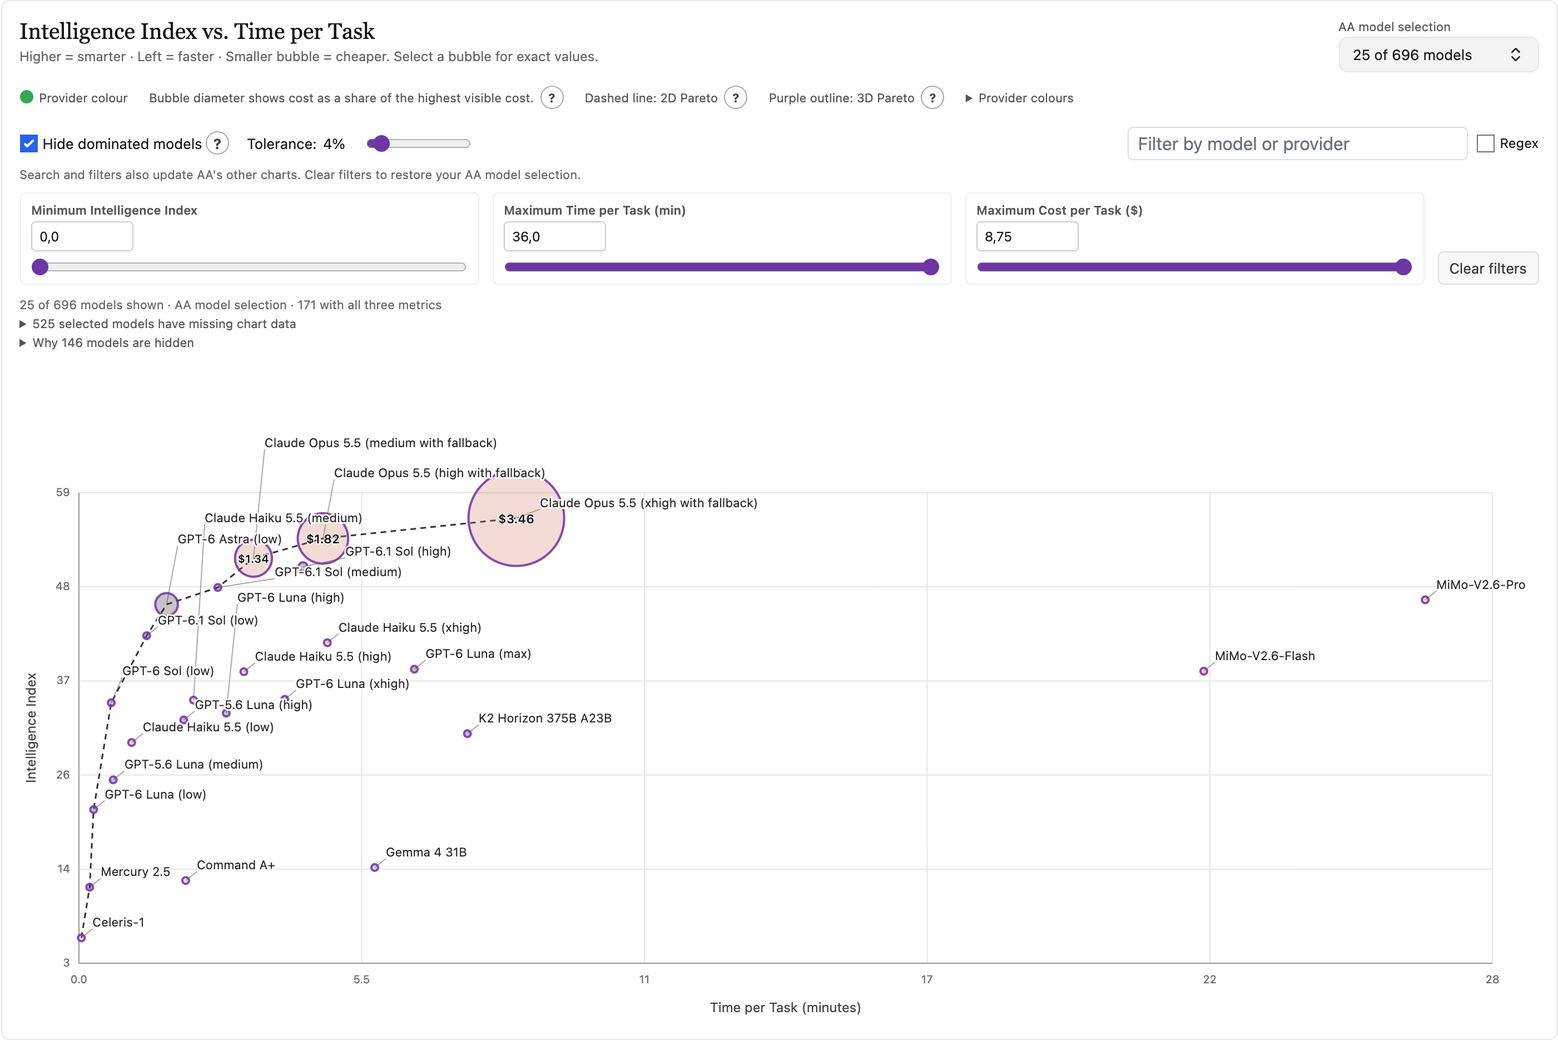
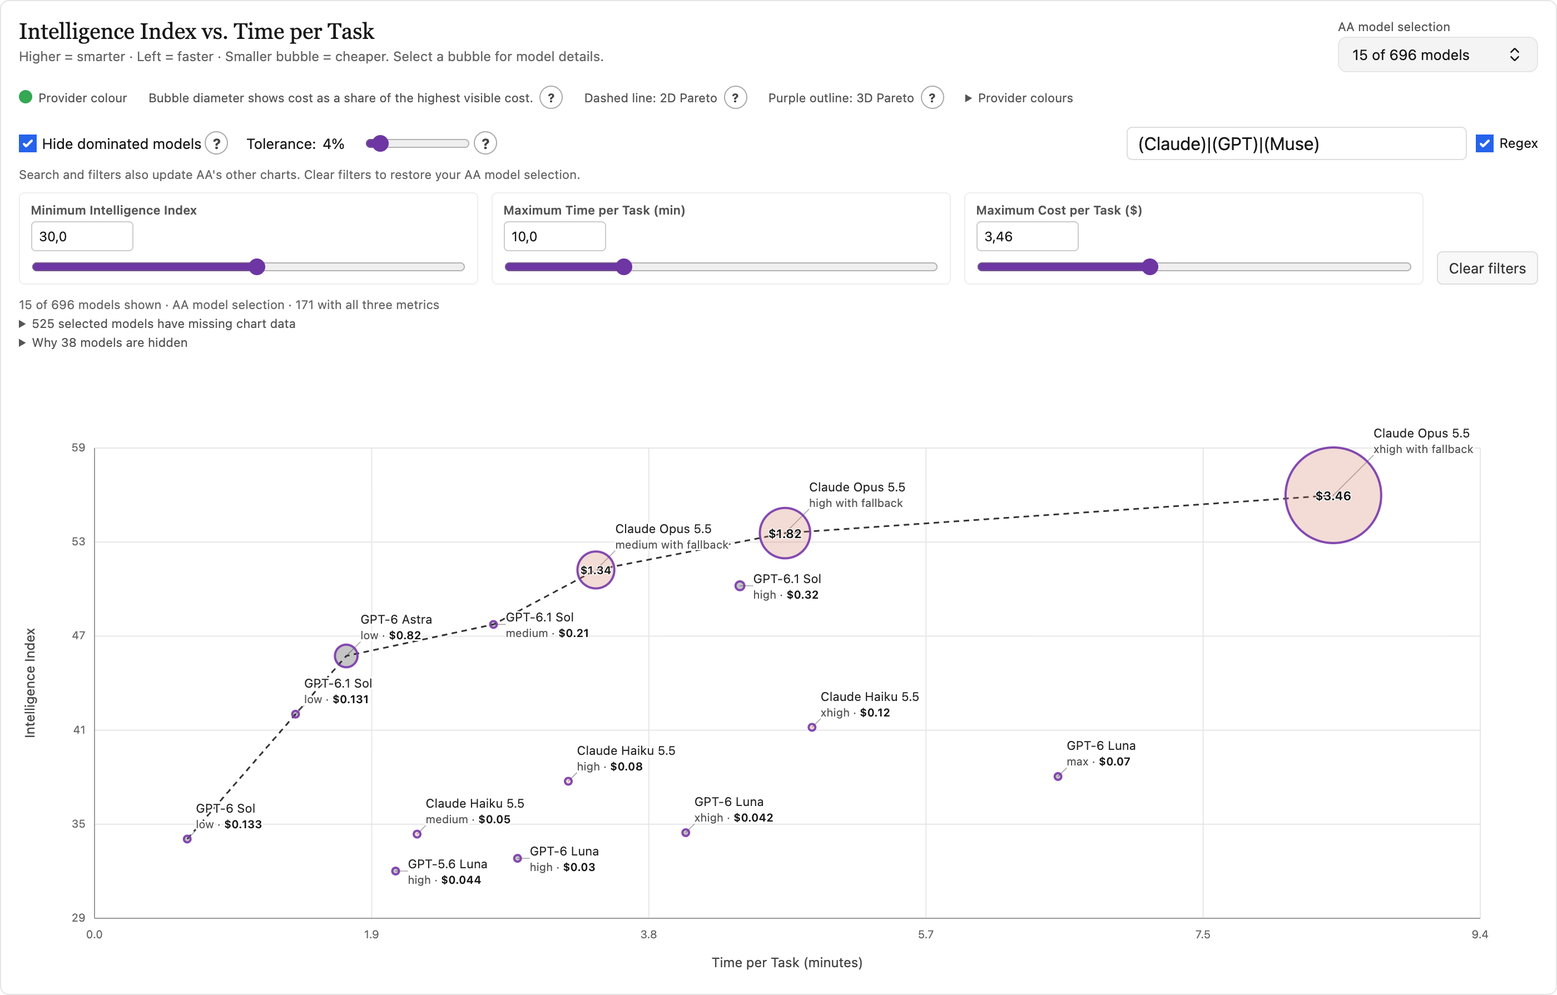
Keep model labels compact and close to bubbles

diff --git a/artificial-analysis-3d-bubble.user.js b/artificial-analysis-3d-bubble.user.js
@@ -1,7 +1,7 @@
 // ==UserScript==
 // @name         ArtificialAnalysis.io: Compare Intelligence, Time AND Cost
 // @namespace    https://artificialanalysis.ai/
-// @version      2.3.5
+// @version      2.4.0
 // @description  Compare AI models by intelligence, time, and cost in one chart. Hide dominated models.
 // @homepageURL  https://github.com/henno/artificial-analysis-bubble-chart
 // @supportURL   https://github.com/henno/artificial-analysis-bubble-chart/issues
@@ -53,6 +53,7 @@
   let svg = null;
   let tooltip = null;
   let status = null;
+  const labelPositions = new Map();
 
   const log = (...args) => console.info(PREFIX, ...args);
   const finite = value => typeof value === 'number' && Number.isFinite(value);
@@ -401,7 +402,7 @@
       const helpText = {
         pareto2: 'The dashed line joins models that have no faster model with equal or higher intelligence. Cost is not part of this line.',
         pareto3: 'A purple outline marks a model for which no other model is at least as smart, fast, and cheap, with one strict improvement. This outline uses exact values, even when tolerance is set.',
-        bubbleSize: 'The highest-cost visible model has the largest bubble. Half the cost gives half its diameter. Prices appear inside bubbles when they fit, or above and to the left when they do not. Each label uses only enough decimal places to distinguish its price from other visible prices, with at least cents and no trailing zeros. Free models show $0. Select a bubble for model details. Very small bubbles keep a 3 px radius so you can see them. The scale changes when the visible models change.',
+        bubbleSize: 'The highest-cost visible model has the largest bubble. Half the cost gives half its diameter. A price appears inside its bubble when it fits, or in the model label when it does not. The model variant is shown below the name. Labels use nearby free space, with a short line to the bubble. Each price uses only enough decimal places to distinguish it from other visible prices, with at least cents and no trailing zeros. Free models show $0. Select a bubble for model details. Very small bubbles keep a 3 px radius so you can see them. The scale changes when the visible models change.',
         dominance: 'Hide a model when another is at least as smart, fast, and cheap, with an improvement in one measure. The Tolerance slider can also hide near matches. Open “Why models are hidden” below the filters for exact comparisons.',
         tolerance: 'Tolerance controls how close another model must be to hide this one. At 0%, the other model must be at least as smart, as fast, and as cheap, with a strict improvement in one measure. Above 0%, it may be worse by up to the selected percentage in each measure, but its largest percentage improvement must exceed its largest percentage disadvantage. Each percentage is measured against the model being hidden. For example, at 4%, a model that is 20% faster and 4% more expensive can hide another model if it is at least as smart. Use a higher value to remove near matches when a large benefit matters more to you than a small trade-off. A higher value can only hide more models. The purple 3D Pareto outlines always use exact values.',
       };
@@ -512,70 +513,183 @@
     }
   }
 
-  function renderLabels(models, xScale, yScale, labelsLayer, leadersLayer, width, occupied) {
+  function compactLabelRows(name, price, measure) {
+    const variant = name.match(/^(.+?)\s+\((.+)\)$/);
+    const rows = [];
+    const wrap = (value, secondary) => {
+      measure.font = `${secondary ? 10 : 11}px system-ui`;
+      let line = '';
+      for (const word of value.split(/\s+/)) {
+        const next = line ? `${line} ${word}` : word;
+        if (line && measure.measureText(next).width > 175) { rows.push({ value: line, secondary }); line = word; }
+        else line = next;
+      }
+      if (line) rows.push({ value: line, secondary });
+    };
+    wrap(variant ? variant[1] : name, false);
+    if (variant) wrap(variant[2], true);
+    if (price) {
+      const last = rows[rows.length - 1];
+      measure.font = '10px system-ui';
+      const textWidth = measure.measureText(`${last.value} · `).width;
+      measure.font = '600 10px system-ui';
+      if (last.secondary && textWidth + measure.measureText(price).width <= 175) last.price = price;
+      else rows.push({ value: '', secondary: true, price });
+    }
+    return rows;
+  }
+
+  function boxesOverlap(a, b, gap = 4) {
+    return a.left < b.right + gap && a.right > b.left - gap && a.top < b.bottom + gap && a.bottom > b.top - gap;
+  }
+
+  function lineHitsBox(line, box, gap = 2) {
+    let start = 0, end = 1;
+    for (const [origin, change, low, high] of [[line.x1, line.x2 - line.x1, box.left - gap, box.right + gap], [line.y1, line.y2 - line.y1, box.top - gap, box.bottom + gap]]) {
+      if (Math.abs(change) < .001) { if (origin < low || origin > high) return false; continue; }
+      const a = (low - origin) / change, b = (high - origin) / change;
+      start = Math.max(start, Math.min(a, b));
+      end = Math.min(end, Math.max(a, b));
+      if (start > end) return false;
+    }
+    return true;
+  }
+
+  function linesCross(a, b) {
+    const side = (x, y, line) => (line.x2 - line.x1) * (y - line.y1) - (line.y2 - line.y1) * (x - line.x1);
+    return side(a.x1, a.y1, b) * side(a.x2, a.y2, b) < 0 && side(b.x1, b.y1, a) * side(b.x2, b.y2, a) < 0;
+  }
+
+  function renderLabels(models, labelsLayer, leadersLayer, bounds, occupied, measure) {
     const items = models.map(model => {
-      const cx = xScale(model.time), cy = yScale(model.intelligence);
-      const text = svgEl('text', { x: cx + 10, y: cy - 10, 'data-aa3d-id': model.id, 'text-anchor': 'start', 'font-size': 11, fill: '#262626', stroke: '#fff', 'stroke-width': 3, 'stroke-linejoin': 'round', 'paint-order': 'stroke', 'pointer-events': 'none' });
-      text.textContent = model.name;
+      const text = svgEl('text', { x: 0, y: 0, 'data-aa3d-id': model.id, 'data-aa3d-name': model.name, 'font-size': 11, fill: '#262626', stroke: '#fff', 'stroke-width': 3, 'stroke-linejoin': 'round', 'paint-order': 'stroke', 'pointer-events': 'none', 'aria-hidden': 'true' });
+      const rows = compactLabelRows(model.name, model.externalPrice, measure).map((row, index) => {
+        const line = svgEl('tspan', { x: 0, y: index * 14, 'font-size': row.secondary ? 10 : 11, fill: row.secondary ? '#555' : '#262626' });
+        line.textContent = row.value;
+        if (row.price) {
+          if (row.value) line.append(document.createTextNode(' · '));
+          const price = svgEl('tspan', { 'font-weight': 600, fill: '#171717', 'data-aa3d-price-id': model.id });
+          price.textContent = row.price;
+          line.append(price);
+        }
+        text.append(line);
+        return line;
+      });
       labelsLayer.append(text);
       const box = text.getBBox();
-      return { text, cx, cy, width: box.width, height: box.height, topOffset: box.y - (cy - 10) };
-    }).sort((a, b) => b.cx - a.cx || a.cy - b.cy);
-    const placed = [...occupied];
+      return { ...model, text, rows, width: box.width, height: box.height, offsetX: box.x, offsetY: box.y, candidates: [] };
+    });
+    const endpoint = (item, box) => ({ x1: item.cx, y1: item.cy, x2: Math.max(box.left, Math.min(item.cx, box.right)), y2: Math.max(box.top, Math.min(item.cy, box.bottom)) });
     for (const item of items) {
-      let position = null;
-      let bestScore = Infinity;
-      for (let y = item.cy - 10; y + item.topOffset >= 4; y -= 15) {
-        const rise = item.cy - 10 - y;
-        if (rise * 1.2 >= bestScore) break;
-        const top = y + item.topOffset;
-        let x = item.cx + 10;
-        while (x + item.width <= width - 8) {
-          const conflict = placed.find(box => x < box.right + 5 && x + item.width > box.left - 5 && top < box.bottom + 5 && top + item.height > box.top - 5);
-          if (!conflict) {
-            const score = x - item.cx - 10 + rise * 1.2;
-            if (score < bestScore) { bestScore = score; position = { x, y, left: x, right: x + item.width, top, bottom: top + item.height }; }
-            break;
-          }
-          x = conflict.right + 5;
+      const previous = labelPositions.get(item.id);
+      const seen = new Set();
+      const add = (left, top, preference) => {
+        const key = `${Math.round(left)},${Math.round(top)}`;
+        if (seen.has(key)) return;
+        seen.add(key);
+        const box = { left, top, right: left + item.width, bottom: top + item.height };
+        if (left < bounds.left || top < bounds.top || box.right > bounds.right || box.bottom > bounds.bottom) return;
+        const line = endpoint(item, box);
+        if (occupied.some(other => boxesOverlap(box, other) || (!other.id && lineHitsBox(line, other)))) return;
+        if (items.some(other => {
+          const dx = other.cx - Math.max(box.left, Math.min(other.cx, box.right));
+          const dy = other.cy - Math.max(box.top, Math.min(other.cy, box.bottom));
+          return dx * dx + dy * dy < (other.r + 4) ** 2;
+        })) return;
+        const length = Math.hypot(line.x2 - item.cx, line.y2 - item.cy);
+        const outside = Math.max(0, length - item.r);
+        const movement = previous ? Math.hypot(left - item.cx - previous.dx, top - item.cy - previous.dy) * .12 : 0;
+        item.candidates.push({ ...box, line, outside, score: outside + preference + movement });
+      };
+      if (previous) add(item.cx + previous.dx, item.cy + previous.dy, 0);
+      const angles = [-45, 0, -90, 45, -135, 180, 90, 135, -22.5, -67.5, 22.5, 67.5, -112.5, -157.5, 112.5, 157.5];
+      for (const extra of [0, 10, 22, 38, 58, 84, 116, 156, 208, 272, 352, 460, 600, 780]) {
+        for (let index = 0; index < angles.length; index++) {
+          const angle = angles[index] * Math.PI / 180, dx = Math.cos(angle), dy = Math.sin(angle), distance = item.r + 8 + extra;
+          const left = item.cx + dx * distance - (dx < -.001 ? item.width : dx > .001 ? 0 : item.width / 2);
+          const top = item.cy + dy * distance - (dy < -.001 ? item.height : dy > .001 ? 0 : item.height / 2);
+          add(left, top, Math.min(index, 7));
         }
       }
-      if (!position) return false;
-      item.text.setAttribute('x', position.x);
-      item.text.setAttribute('y', position.y);
-      const firstLetter = item.text.getExtentOfChar(0);
-      leadersLayer.append(svgEl('line', { x1: item.cx, y1: item.cy, x2: firstLetter.x, y2: firstLetter.y + firstLetter.height, stroke: '#666', 'stroke-width': .8, 'stroke-opacity': .7, 'pointer-events': 'none', 'data-aa3d-leader': item.text.getAttribute('data-aa3d-id') }));
-      placed.push(position);
+      item.candidates.sort((a, b) => a.score - b.score);
+      item.crowd = items.filter(other => other !== item && Math.hypot(other.cx - item.cx, other.cy - item.cy) < 150).length;
     }
-    return true;
-  }
-
-  function renderExternalPrices(items, pricesLayer, leadersLayer, occupied) {
-    for (const item of items.sort((a, b) => a.cx - b.cx || a.cy - b.cy)) {
-      const text = svgEl('text', { x: item.cx - 10, y: item.cy - 10, 'text-anchor': 'end', 'font-size': 11, 'font-weight': 600, fill: '#262626', stroke: '#fff', 'stroke-width': 3, 'stroke-linejoin': 'round', 'paint-order': 'stroke', 'pointer-events': 'none', 'aria-hidden': 'true', 'data-aa3d-price-id': item.id });
-      text.textContent = item.price;
-      pricesLayer.append(text);
-      const box = text.getBBox();
-      const topOffset = box.y - (item.cy - 10);
-      let position = null;
-      const right = item.cx - 10;
-      const left = right - box.width;
-      for (let y = item.cy - 10; y + topOffset >= 4 && !position; y -= 15) {
-        const top = y + topOffset;
-        const conflict = occupied.some(other => left < other.right + 5 && right > other.left - 5 && top < other.bottom + 5 && top + box.height > other.top - 5);
-        if (!conflict && left >= 4) position = { x: right, y, left, right, top, bottom: top + box.height };
+    const choose = (item, placed) => {
+      let best = null, bestScore = Infinity;
+      for (const candidate of item.candidates) {
+        if (candidate.score >= bestScore) break;
+        let crossings = 0, blocked = false;
+        for (const other of placed.values()) {
+          if (boxesOverlap(candidate, other)) { blocked = true; break; }
+          if (lineHitsBox(candidate.line, other) || lineHitsBox(other.line, candidate)) crossings += 3;
+          if (linesCross(candidate.line, other.line)) crossings++;
+        }
+        if (!blocked && candidate.score + crossings * 12 < bestScore) { best = candidate; bestScore = candidate.score + crossings * 12; }
       }
-      if (!position) return false;
-      text.setAttribute('x', position.x);
-      text.setAttribute('y', position.y);
-      const lastLetter = text.getExtentOfChar(item.price.length - 1);
-      leadersLayer.append(svgEl('line', { x1: item.cx, y1: item.cy, x2: lastLetter.x + lastLetter.width, y2: lastLetter.y + lastLetter.height, stroke: '#666', 'stroke-width': .8, 'stroke-opacity': .7, 'pointer-events': 'none', 'data-aa3d-price-leader': item.id }));
-      occupied.push(position);
+      return best;
+    };
+    const solve = order => {
+      const placed = new Map(), failed = [];
+      for (const item of order) {
+        const position = choose(item, placed);
+        if (position) placed.set(item.id, position); else failed.push(item);
+      }
+      const lengths = [...placed.values()].map(position => position.outside);
+      return { placed, failed, quality: Math.max(0, ...lengths) * 2 + lengths.reduce((sum, length) => sum + length, 0) / Math.max(1, items.length) };
+    };
+    const order = [...items].sort((a, b) => a.candidates.length - b.candidates.length || b.crowd - a.crowd || b.width - a.width || a.id.localeCompare(b.id));
+    let best = solve(order), attempt = best;
+    // Give labels with long lines an earlier choice of nearby space.
+    for (let pass = 0; pass < 2 && (attempt.failed.length || attempt.quality > 135); pass++) {
+      const next = [...items].sort((a, b) => (attempt.placed.get(b.id)?.outside ?? 10000) - (attempt.placed.get(a.id)?.outside ?? 10000) || order.indexOf(a) - order.indexOf(b));
+      attempt = solve(next);
+      if (attempt.failed.length < best.failed.length || (attempt.failed.length === best.failed.length && attempt.quality < best.quality)) best = attempt;
+    }
+    if (best.failed.length) return false;
+    for (const item of [...items].sort((a, b) => best.placed.get(b.id).outside - best.placed.get(a.id).outside)) {
+      const original = best.placed.get(item.id);
+      best.placed.delete(item.id);
+      best.placed.set(item.id, choose(item, best.placed) || original);
+    }
+    const quality = placed => {
+      const lengths = [...placed.values()].map(position => position.outside);
+      return Math.max(...lengths) * 2 + lengths.reduce((sum, length) => sum + length, 0) / items.length;
+    };
+    // Move nearby labels together when one label has a much longer line.
+    for (const item of [...items].sort((a, b) => best.placed.get(b.id).outside - best.placed.get(a.id).outside).slice(0, 8)) {
+      const original = best.placed.get(item.id);
+      if (original.outside < 38) continue;
+      let improved = best.placed, bestQuality = quality(improved);
+      for (const candidate of item.candidates.filter(position => position.outside < original.outside - 4).slice(0, 48)) {
+        const blocked = items.filter(other => other !== item && boxesOverlap(candidate, best.placed.get(other.id)));
+        if (blocked.length > 2) continue;
+        const trial = new Map(best.placed);
+        trial.delete(item.id);
+        blocked.forEach(other => trial.delete(other.id));
+        trial.set(item.id, candidate);
+        for (const other of blocked) {
+          const position = choose(other, trial);
+          if (position) trial.set(other.id, position);
+        }
+        if (trial.size !== items.length) continue;
+        const trialQuality = quality(trial);
+        if (trialQuality < bestQuality - 1) { improved = trial; bestQuality = trialQuality; }
+      }
+      best.placed = improved;
+    }
+    for (const item of items) {
+      const position = best.placed.get(item.id);
+      const x = position.left - item.offsetX, y = position.top - item.offsetY;
+      item.text.setAttribute('x', x);
+      item.text.setAttribute('y', y);
+      item.rows.forEach((row, index) => { row.setAttribute('x', x); row.setAttribute('y', y + index * 14); });
+      leadersLayer.append(svgEl('line', { ...position.line, stroke: '#666', 'stroke-width': .8, 'stroke-opacity': .6, 'pointer-events': 'none', 'data-aa3d-leader': item.id }));
+      labelPositions.set(item.id, { dx: position.left - item.cx, dy: position.top - item.cy });
     }
     return true;
   }
 
-  function renderChart(models, total, sourceInfo, topSpace = 100) {
+  function renderChart(models, total, sourceInfo, topSpace = 60) {
     svg.replaceChildren();
     tooltip.hidden = true;
     const width = Math.max(900, Math.round(chart.querySelector('.aa3d-plot').clientWidth));
@@ -588,18 +702,8 @@
     const minY = Math.min(...yValues) - 3, maxY = Math.max(...yValues) + 3;
     const maxCost = Math.max(...costs);
     const chartPrice = chartPriceFormatter(models);
-    const plot = { left: 105, top: 25 + topSpace, right: width - 22, bottom: height - 52 };
+    const plot = { left: 68, top: 25 + topSpace, right: width - 52, bottom: height - 52 };
     const measure = document.createElement('canvas').getContext('2d');
-    measure.font = '600 11px system-ui';
-    plot.left = Math.max(plot.left, Math.ceil(Math.max(...models.map(model => measure.measureText(chartPrice(model.cost)).width))) + 15);
-    measure.font = '11px system-ui';
-    for (const model of models) {
-      const fraction = (model.time - minX) / (maxX - minX);
-      if (fraction <= 0) continue;
-      const available = width - 22 - measure.measureText(model.name).width;
-      plot.right = Math.min(plot.right, plot.left + (available - plot.left) / fraction);
-    }
-    plot.right = Math.max(plot.left + 40, plot.right);
     const xScale = value => plot.left + (value - minX) / (maxX - minX) * (plot.right - plot.left);
     const yScale = value => plot.bottom - (value - minY) / (maxY - minY) * (plot.bottom - plot.top);
     // Circle diameter follows the cost ratio. Keep a small visible marker for low costs.
@@ -630,7 +734,7 @@
       const points = models.filter(m => m.pareto2).sort((a, b) => a.time - b.time || a.intelligence - b.intelligence);
       frontier.append(svgEl('polyline', { points: points.map(m => `${xScale(m.time)},${yScale(m.intelligence)}`).join(' '), fill: 'none', stroke: '#333', 'stroke-width': 1.5, 'stroke-dasharray': '5 4', 'pointer-events': 'none' }));
     }
-    const priceBoxes = [...axisBoxes], externalPrices = [];
+    const priceBoxes = [...axisBoxes], labelModels = [];
     [...models].sort((a, b) => b.cost - a.cost).forEach(model => {
       const cx = xScale(model.time), cy = yScale(model.intelligence), r = radius(model.cost);
       const circle = svgEl('circle', { cx, cy, r, fill: model.color, 'fill-opacity': .26, stroke: model.pareto3 ? '#7837aa' : model.color, 'stroke-opacity': model.pareto3 ? .9 : .45, 'stroke-width': model.pareto3 ? 2 : 1, 'data-aa3d-id': model.id, style: 'cursor:pointer' });
@@ -645,11 +749,13 @@
         text.textContent = price;
         prices.append(text);
         const box = text.getBBox();
-        priceBoxes.push({ left: box.x, right: box.x + box.width, top: box.y, bottom: box.y + box.height });
+        const priceBox = { id: model.id, left: box.x, right: box.x + box.width, top: box.y, bottom: box.y + box.height };
+        if (priceBoxes.some(other => boxesOverlap(priceBox, other, 2))) { text.remove(); continue; }
+        priceBoxes.push(priceBox);
         priceFits = true;
         break;
       }
-      if (!priceFits) externalPrices.push({ id: model.id, price, cx, cy });
+      labelModels.push({ id: model.id, name: model.name, cx, cy, r, externalPrice: priceFits ? '' : price });
       const hit = svgEl('circle', { cx, cy, r: Math.max(12, r), class: 'aa3d-hit', 'data-aa3d-hit-id': model.id, tabindex: '0', role: 'button', 'aria-label': `${model.name}: Intelligence Index ${model.intelligence.toFixed(2)}, time ${model.time.toFixed(2)} minutes, cost ${price}`, 'aria-describedby': 'aa3d-tooltip' });
       hit.addEventListener('pointerenter', () => { if (!state.pinned) showTooltip(model, hit, price); });
       hit.addEventListener('pointerleave', () => { if (!state.pinned && document.activeElement !== hit) tooltip.hidden = true; });
@@ -660,8 +766,7 @@
       hit.addEventListener('keydown', event => { if (event.key === 'Enter' || event.key === ' ') { event.preventDefault(); toggle(); } });
       hits.append(hit);
     });
-    if (!renderExternalPrices(externalPrices, prices, leaders, priceBoxes) && topSpace < 1000) return renderChart(models, total, sourceInfo, topSpace + 80);
-    if (!renderLabels(models, xScale, yScale, labels, leaders, width, priceBoxes) && topSpace < 1000) return renderChart(models, total, sourceInfo, topSpace + 80);
+    if (!renderLabels(labelModels, labels, leaders, { left: 28, top: 4, right: width - 8, bottom: plot.bottom - 5 }, priceBoxes, measure) && topSpace < 1000) return renderChart(models, total, sourceInfo, topSpace + 80);
     svg.onclick = event => { if (!event.target.closest('circle[data-aa3d-hit-id]')) { state.pinned = null; tooltip.hidden = true; } };
     status.textContent = `${models.length} of ${total} models shown · ${sourceInfo}`;
     chart.updatePan?.();

diff --git a/README.md b/README.md
@@ -21,7 +21,7 @@ Artificial Analysis lists more than 600 models. Showing many models at once make
 - Set a minimum Intelligence Index and maximum time and cost with sliders or number fields. The chart updates as you move a slider.
 - Search by model or provider. Turn on **Regex** to use a pattern such as `(Claude)|(GPT)`; matching ignores case. The chart shows an error if the pattern is invalid. The search, sliders, and dominance filter also update AA's other charts.
 - The most expensive visible model has the largest bubble. Other bubble diameters follow their cost as a share of that model's cost. A model at half the cost has a bubble half as wide. Very small bubbles keep a visible marker.
-- Read the price inside a bubble when it fits. For a smaller bubble, the price appears above and to its left, with a thin line to the bubble. Each price label uses the fewest decimal places that distinguish it from other visible costs, with at least cents. Trailing zeros are removed, and free models show `$0`. Select any bubble to see its details.
+- Read the price inside a bubble when it fits. Other prices appear in the model label. Model variants appear below the name. Labels use nearby free space around each bubble, with one line to show the connection. The layout keeps labels close to their bubbles and preserves their positions where possible after a filter change. Each price uses the fewest decimal places that distinguish it from other visible costs, with at least cents. Trailing zeros are removed, and free models show `$0`. Select any bubble to see its details.
 - Open the AA model picker from the new chart.
 - See a dashed two-dimensional Pareto line and purple outlines for the exact three-dimensional Pareto set. Click the `?` buttons in the chart for explanations.
 - Open “Why models are hidden” to see which model and values caused each model to be hidden.

diff --git a/CHROME-INSTALLATION.md b/CHROME-INSTALLATION.md
@@ -45,7 +45,7 @@ If the chart is missing, reload the page. Check that Tampermonkey is enabled and
 
 ## Use the chart
 
-- Higher bubbles are smarter, bubbles farther left are faster, and smaller bubbles are cheaper. Select a bubble to see its exact values.
+- Higher bubbles are smarter, bubbles farther left are faster, and smaller bubbles are cheaper. Select a bubble to see its details.
 - Use the sliders or number fields to set a minimum Intelligence Index and maximum time and cost.
 - Use **AA model selection** to pick models. Turn on **Regex** beside the search field to match names or providers with a pattern such as `(Claude)|(GPT)`. Search and chart filters also update AA's other charts.
 - Click a `?` button to learn about the Pareto line, outlines, or hidden models.
